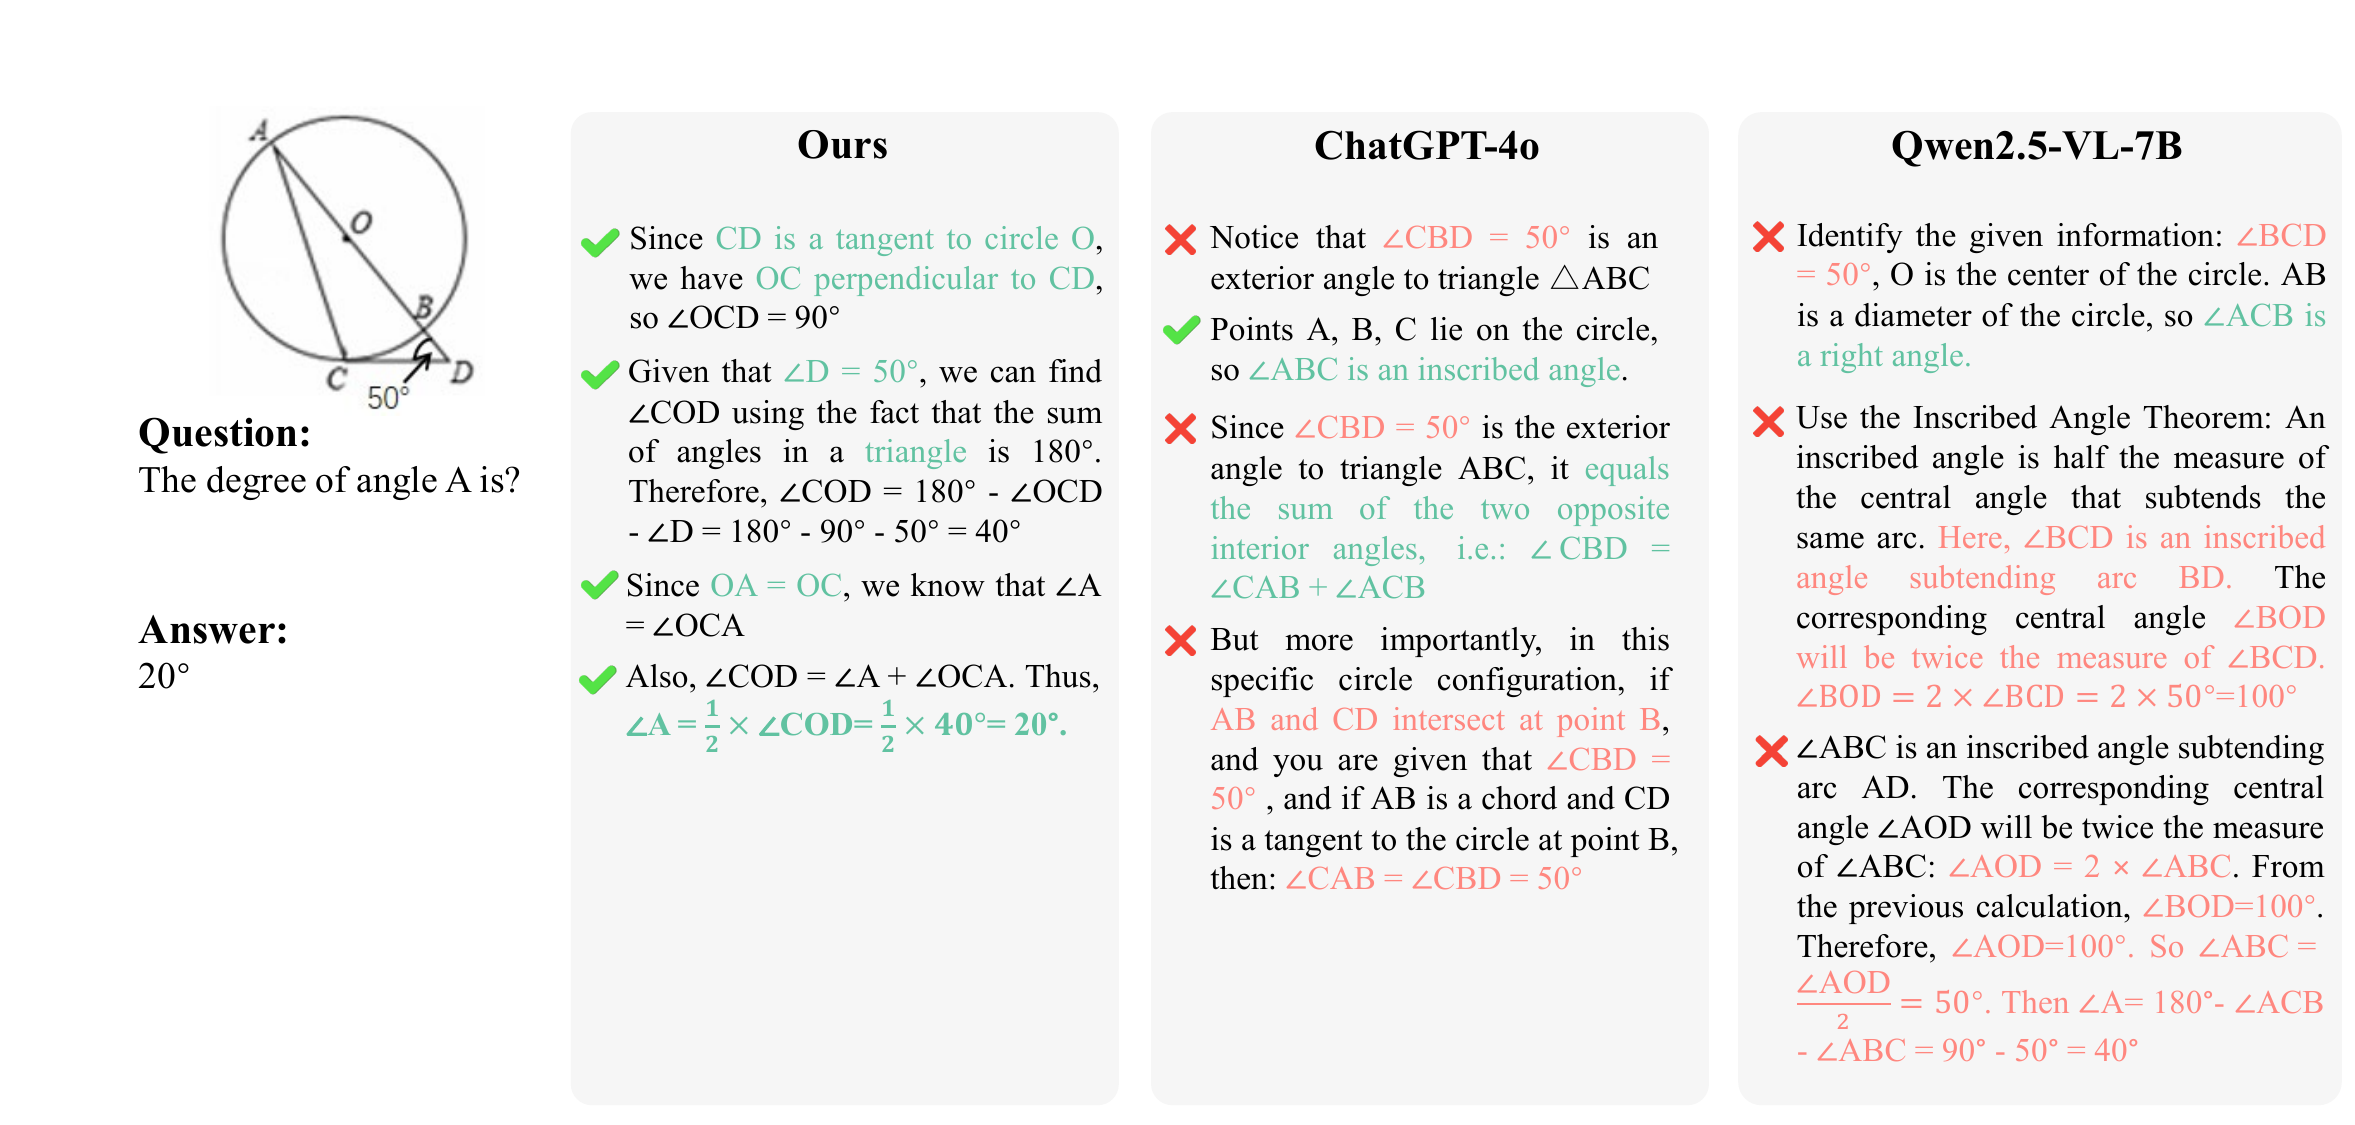
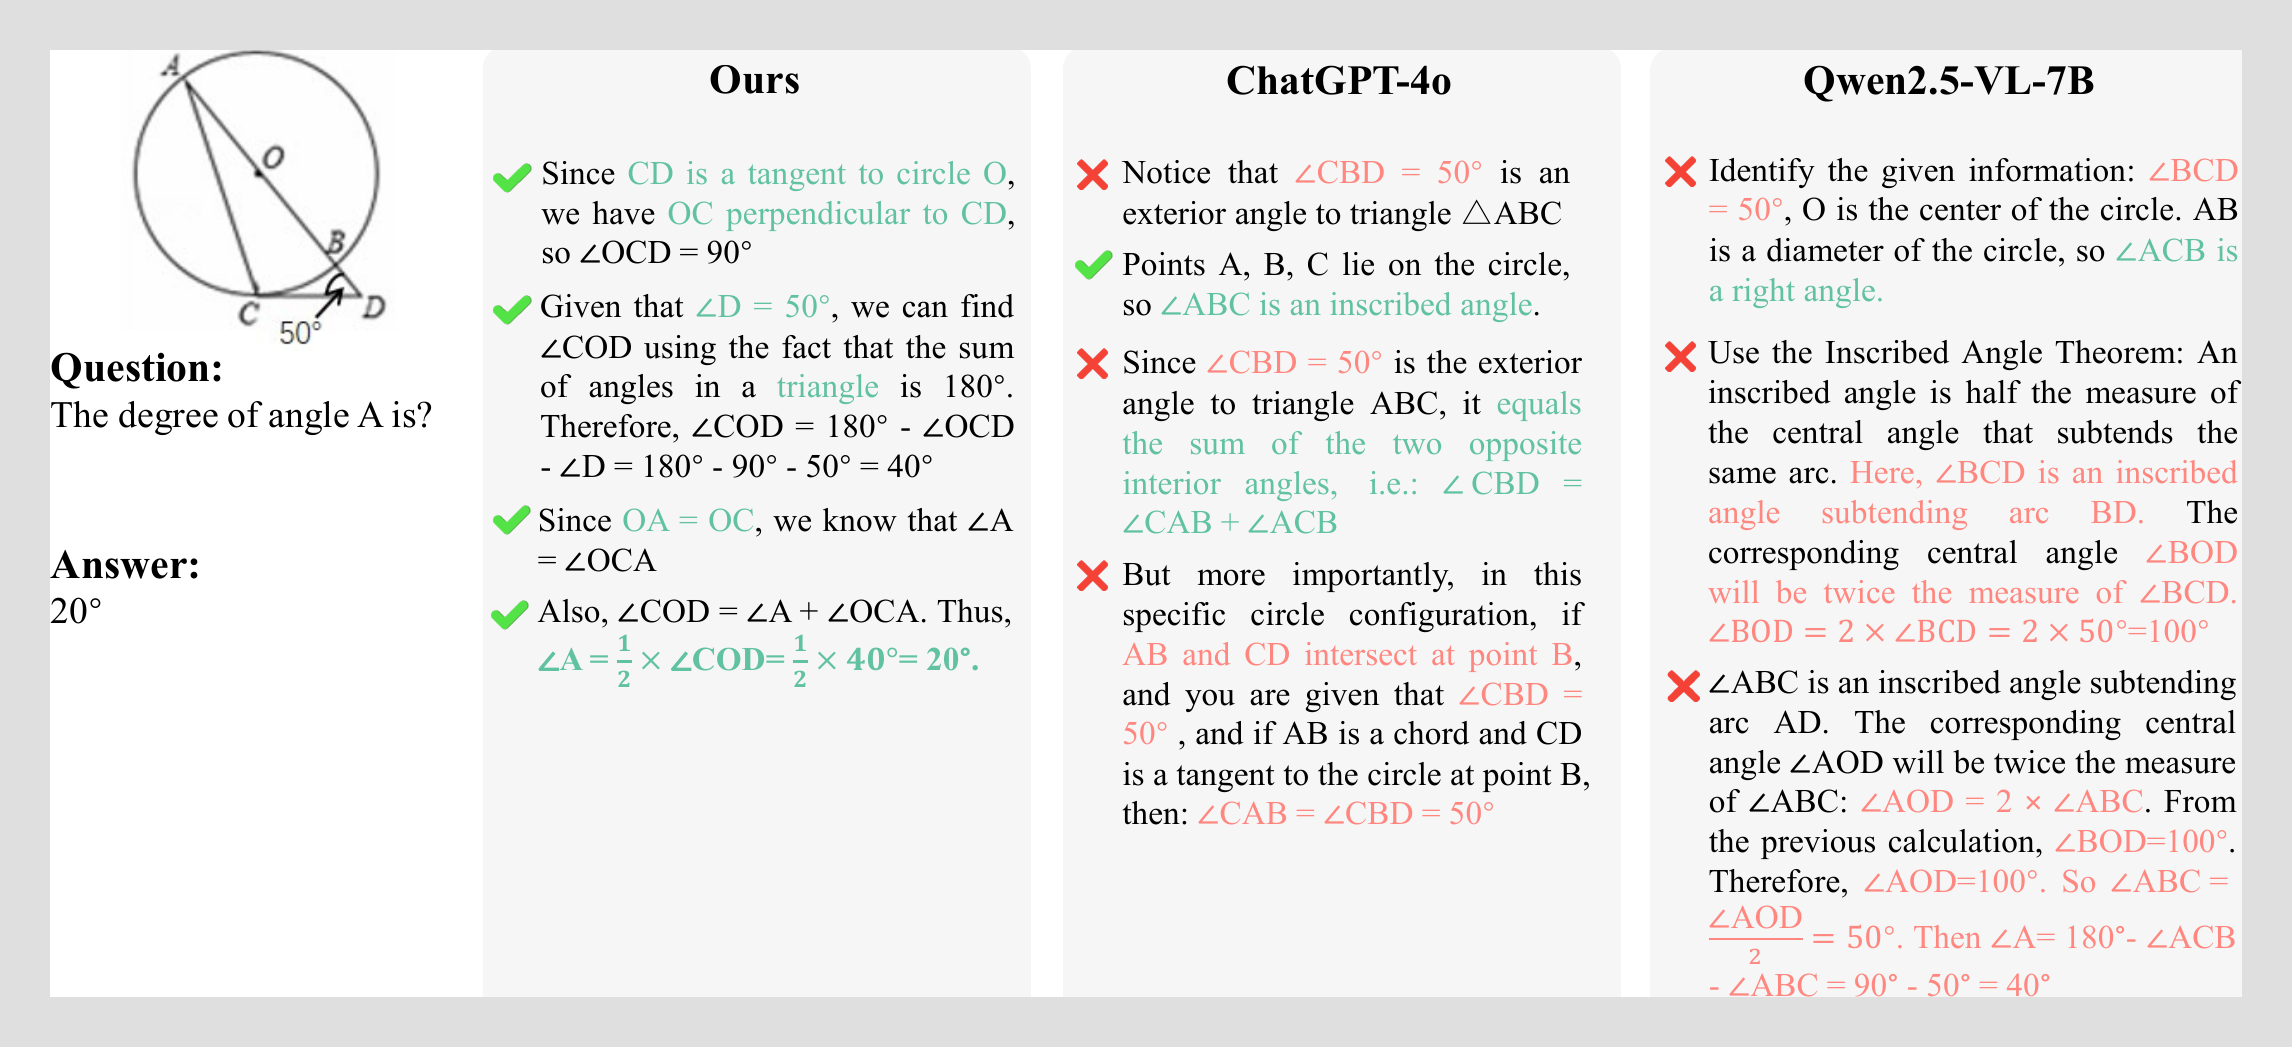
Fix: Crop carousel images with 50px padding for better fit

Changed region(s): [[0.0, 0.0, 1.0, 1.0]]

diff --git a/static/css/style.css b/static/css/style.css
@@ -611,8 +611,6 @@ embed[type="application/pdf"] {
   box-shadow: 0 4px 6px -1px rgba(0, 0, 0, 0.1), 0 2px 4px -1px rgba(0, 0, 0, 0.06);
   display: block;
   margin: 0 auto;
-  object-fit: contain;
-  background-color: white;
 }
 
 @media screen and (max-width: 768px) {
